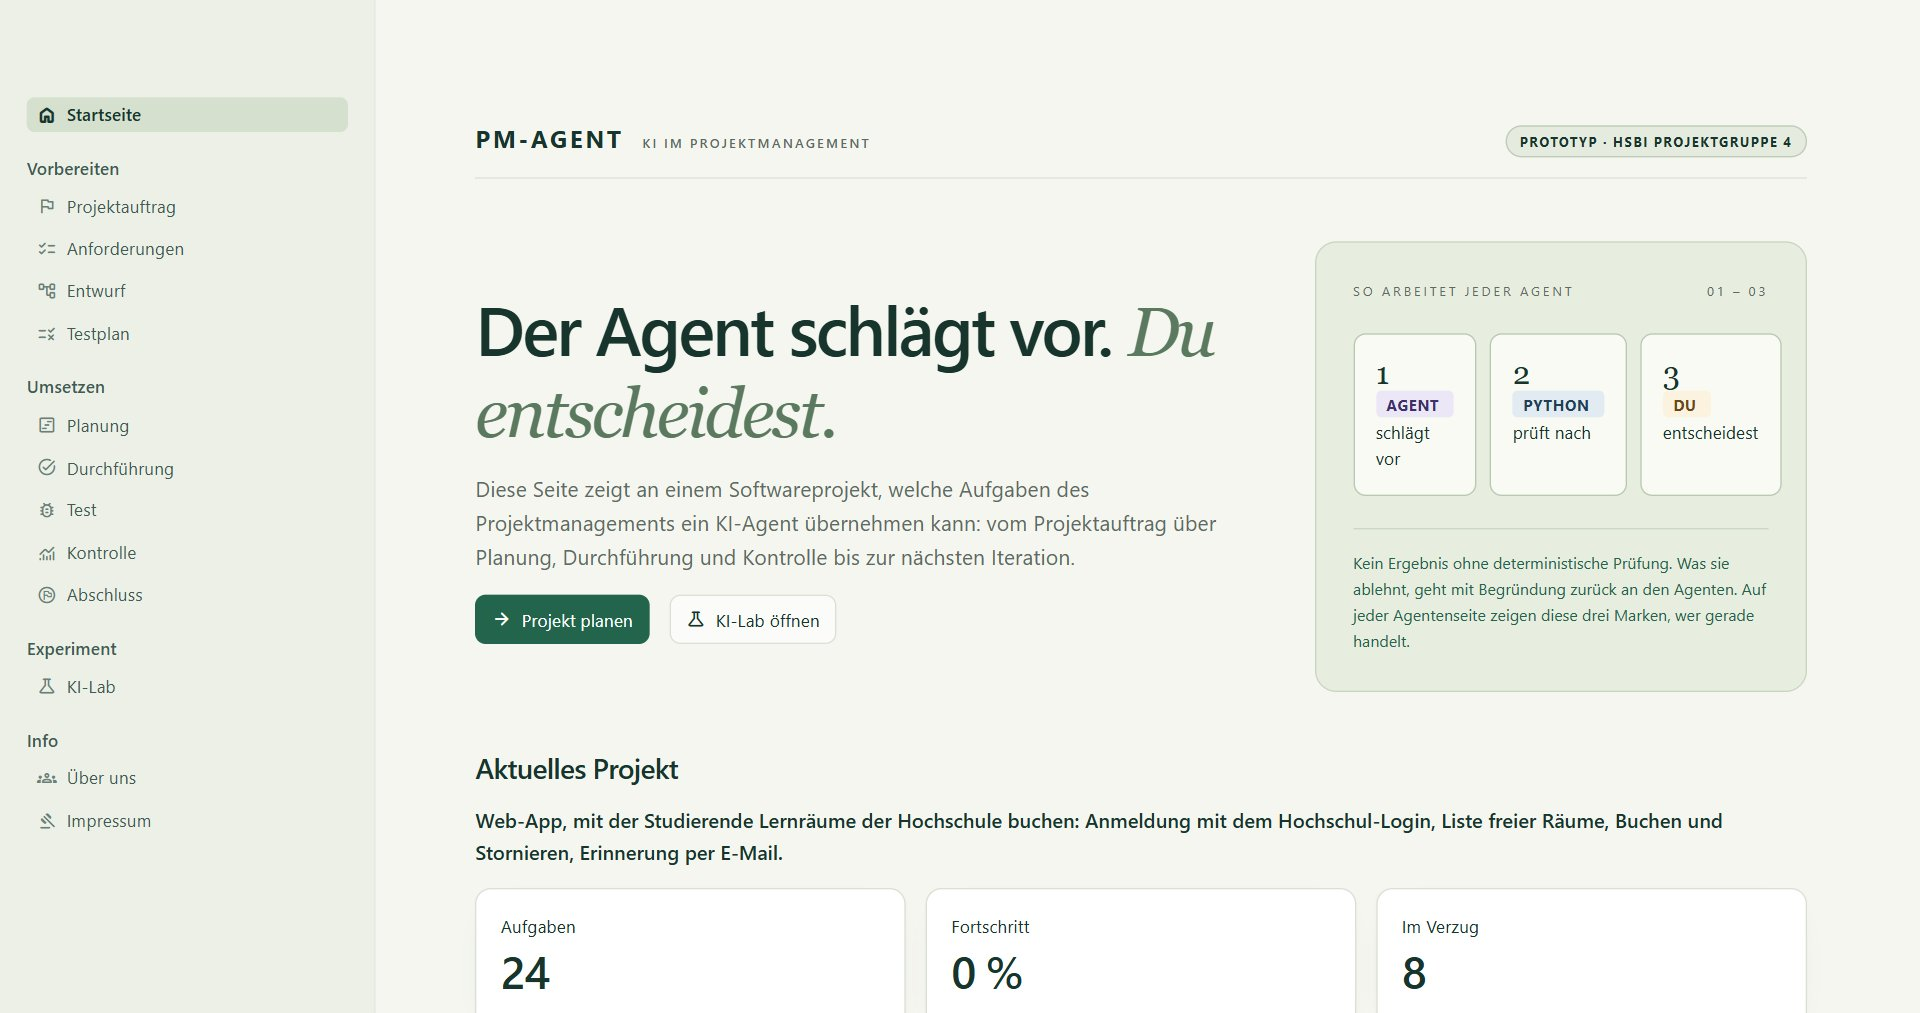
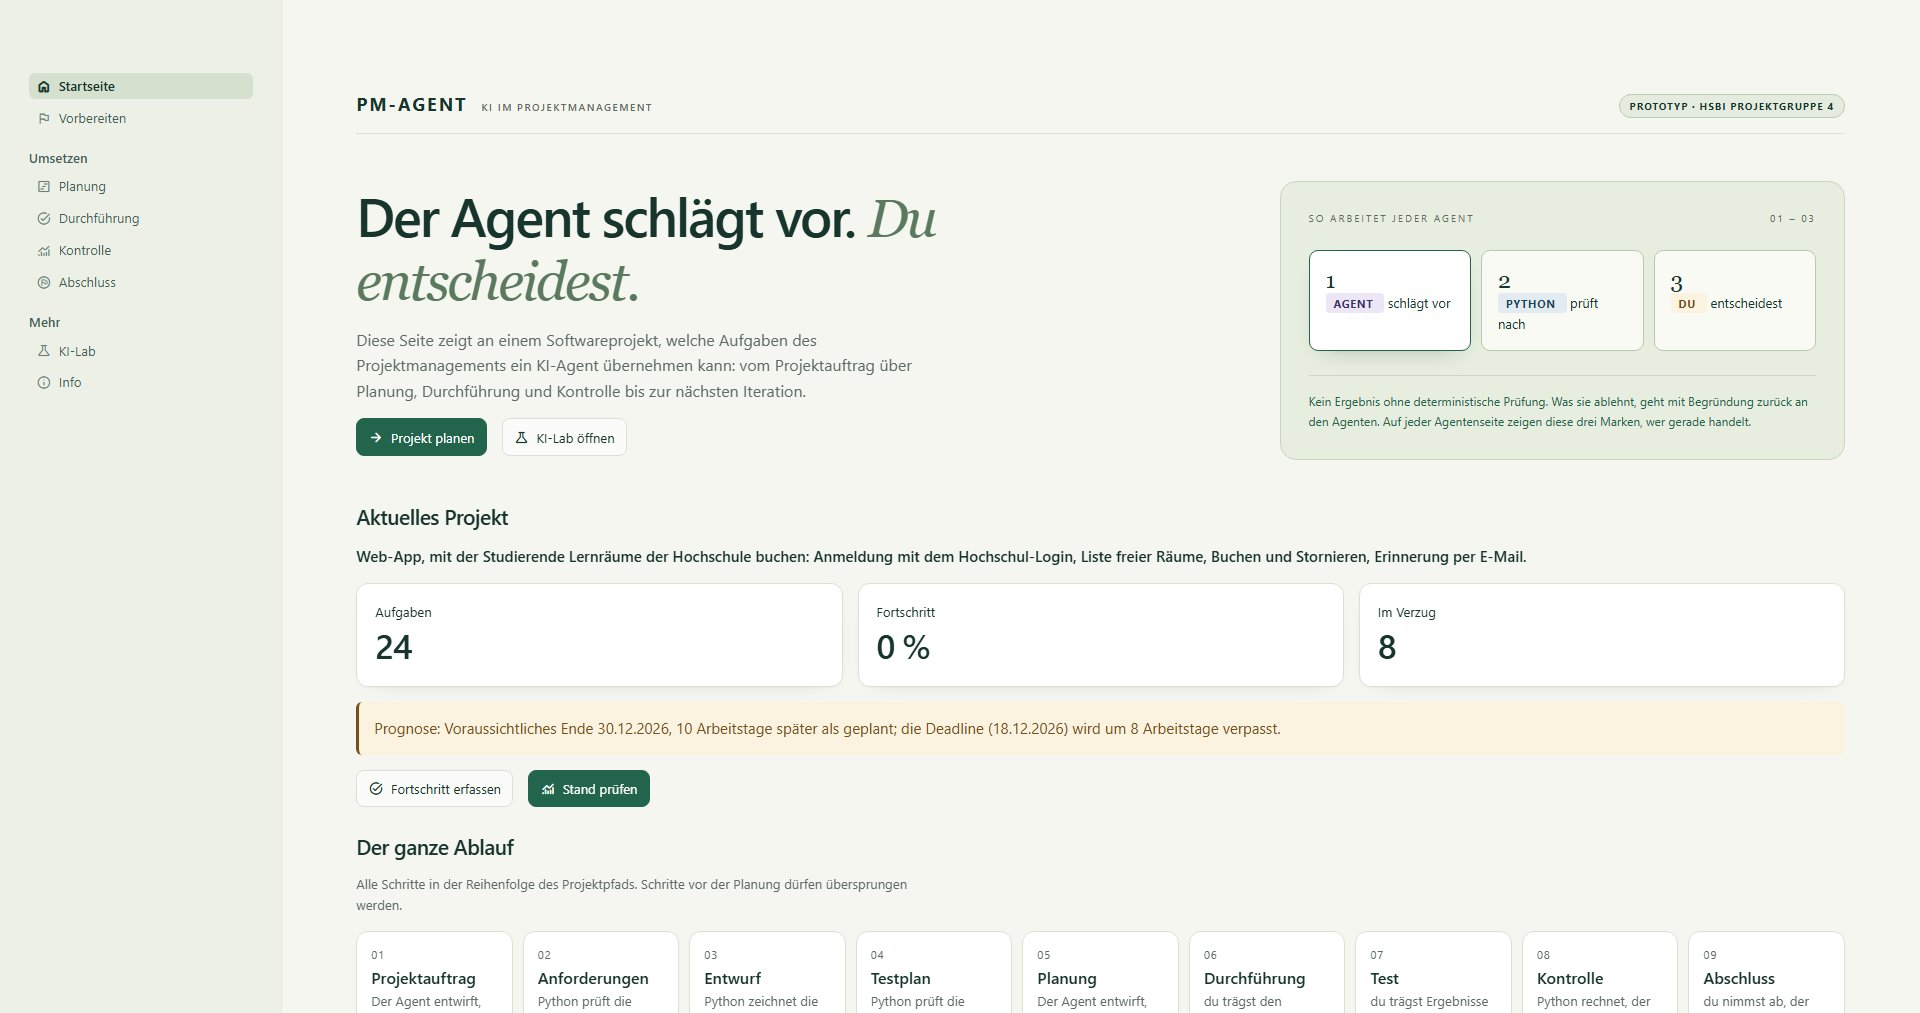
feat(ui): one menu entry per group, the other pages as tabs
The menu listed thirteen pages. Now it shows eight: Startseite,
Vorbereiten, Planung, Durchführung, Kontrolle, Abschluss, KI-Lab and
Info. Anforderungen, Entwurf, Testplan, Test and Impressum stay pages
(hidden in the menu with st.Page visibility), so every switch_page and
URL keeps working; ui.GROUPS lists the groups and ui.group_tabs draws
them as a row of tabs on top of each page of a group.

diff --git a/04-Prototyp/pm_agent/assets/style.css b/04-Prototyp/pm_agent/assets/style.css
@@ -379,6 +379,28 @@
 }
 .chip-arrow { color: var(--muted); }
 
+/* ---- Tabs of a group (Vorbereiten, Kontrolle, Info) -------------------------------------- */
+
+/* The pages of one menu entry. This page has the green edge of the project path; the others
+   are plain links. They wrap on a phone instead of scrolling sideways. */
+[class*="st-key-group-tabs"] { flex-wrap: wrap; row-gap: 4px; }
+[class*="st-key-group-tabs"] [data-testid="stPageLink-NavLink"],
+.group-tab {
+  display: inline-block;
+  border: 1px solid var(--line);
+  background: #fff;
+  border-radius: 20px;
+  padding: 4px 12px;
+  font-size: 14px;
+}
+[class*="st-key-group-tabs"] [data-testid="stPageLink-NavLink"] p { color: var(--ink); font-size: 14px; }
+.group-tab.here {
+  border-color: var(--green);
+  box-shadow: inset 0 0 0 1px var(--green);
+  color: var(--ink);
+  font-weight: 600;
+}
+
 /* ---- Project path and roles (every agent page) ------------------------------------------ */
 
 /* Planen, Ausführen, Prüfen: done in mint with a tick, next with a golden edge, this page

diff --git a/04-Prototyp/pm_agent/app.py b/04-Prototyp/pm_agent/app.py
@@ -9,32 +9,34 @@ from pathlib import Path
 
 import streamlit as st
 
-from pm_agent.ui import PAGES, journey
+from pm_agent.ui import PAGES, group_tabs, journey
 
 ROOT = Path(__file__).parent
 
 st.set_page_config(page_title="PM-Agent", page_icon=":material/view_timeline:", layout="wide")
 state = st.session_state
 
+# One entry per group: the first page of a group stands for it, the other pages of the group
+# are hidden here and open as tabs on top of the page (ui.GROUPS, ui.group_tabs).
 MENU = {
-    "": [st.Page("views/startseite.py", title="Startseite", icon=":material/home:")],
-    "Vorbereiten": [
-        st.Page("views/auftrag.py", title="Projektauftrag", icon=":material/flag:"),
-        st.Page("views/anforderungen.py", title="Anforderungen", icon=":material/checklist:"),
-        st.Page("views/entwurf.py", title="Entwurf", icon=":material/account_tree:"),
-        st.Page("views/testplan.py", title="Testplan", icon=":material/rule:"),
+    "": [
+        st.Page("views/startseite.py", title="Startseite", icon=":material/home:"),
+        st.Page("views/auftrag.py", title="Vorbereiten", icon=":material/flag:"),
+        st.Page("views/anforderungen.py", title="Anforderungen", visibility="hidden"),
+        st.Page("views/entwurf.py", title="Entwurf", visibility="hidden"),
+        st.Page("views/testplan.py", title="Testplan", visibility="hidden"),
     ],
     "Umsetzen": [
         st.Page("views/planung.py", title="Planung", icon=":material/view_timeline:"),
         st.Page("views/durchfuehrung.py", title="Durchführung", icon=":material/task_alt:"),
-        st.Page("views/testlauf.py", title="Test", icon=":material/bug_report:"),
         st.Page("views/kontrolle.py", title="Kontrolle", icon=":material/monitoring:"),
+        st.Page("views/testlauf.py", title="Test", visibility="hidden"),
         st.Page("views/abschluss.py", title="Abschluss", icon=":material/flag_circle:"),
     ],
-    "Experiment": [st.Page("views/ki_lab.py", title="KI-Lab", icon=":material/science:")],
-    "Info": [
-        st.Page("views/ueber_uns.py", title="Über uns", icon=":material/groups:"),
-        st.Page("views/impressum.py", title="Impressum", icon=":material/gavel:"),
+    "Mehr": [
+        st.Page("views/ki_lab.py", title="KI-Lab", icon=":material/science:"),
+        st.Page("views/ueber_uns.py", title="Info", icon=":material/info:"),
+        st.Page("views/impressum.py", title="Impressum", visibility="hidden"),
     ],
 }
 page = st.navigation(MENU)
@@ -69,6 +71,7 @@ state.page = page.url_path
 # A container of its own per page: a page change mounts new content, which is what the
 # page transition in assets/style.css hangs on.
 with st.container(key=f"page-{page.url_path or 'startseite'}"):
+    group_tabs(page.url_path)
     if page.url_path in PAGES:  # the pages of a phase
         journey(page.url_path)
     page.run()

diff --git a/04-Prototyp/pm_agent/tests/test_source_rules.py b/04-Prototyp/pm_agent/tests/test_source_rules.py
@@ -143,13 +143,20 @@ def test_findings_of_a_check_share_one_box_per_kind():
 
 def test_the_project_path_names_each_step_like_the_menu():
     # "Prüfen" in the path above the title "Kontrolle": one step, two names.
-    from pm_agent.ui import JOURNEY
+    from pm_agent.ui import GROUPS, JOURNEY
 
     pages = re.findall(
         r'st\.Page\("views/(\w+)\.py", title="([^"]+)"', (ROOT / "app.py").read_text("utf-8")
     )
     titles = dict(pages)
-    assert [(slug, name) for slug, name, _ in JOURNEY if titles[slug] != name] == []
+    # The first page of a group stands in the menu under the name of the group.
+    heads = {pages[0][0]: group for group, pages in GROUPS.items()}
+    assert [
+        (slug, name) for slug, name, _ in JOURNEY if titles[slug] != heads.get(slug, name)
+    ] == []
+    # Every other step is named in the tabs of its group as in the path.
+    labels = {slug: label for pages in GROUPS.values() for slug, label in pages}
+    assert [(slug, name) for slug, name, _ in JOURNEY if labels.get(slug, name) != name] == []
 
 
 def test_numbers_to_fill_in_follow_the_language_of_the_browser():
@@ -172,7 +179,7 @@ def test_the_menu_groups_pages_by_phase():
     # stood under "Vorbereiten": the group said who acts, and said it wrongly.
     source = (ROOT / "app.py").read_text(encoding="utf-8")
     groups = re.findall(r'^    "([^"]*)": \[', source, flags=re.M)
-    assert groups == ["", "Vorbereiten", "Umsetzen", "Experiment", "Info"]
+    assert groups == ["", "Umsetzen", "Mehr"]
     assert not (ROOT / "views" / "betrieb.py").exists()
     assert not (ROOT / "views" / "iteration.py").exists()
 
@@ -219,3 +226,22 @@ def test_texts_split_over_lines_keep_the_space_between_words():
                 if ends_in_word and right[:1].isalpha():
                     glued.append(f"{path.name}:{first.start[0]}")
     assert not glued, glued
+
+
+def test_the_menu_shows_one_entry_per_group_and_hides_the_rest():
+    # Thirteen entries were too many to scan. The pages of a group are tabs on its page; the
+    # menu shows its first page only, and every other page of the group is hidden there.
+    from pm_agent.ui import GROUPS
+
+    entries = re.findall(
+        r'st\.Page\("views/(\w+)\.py", title="([^"]+)"[^)]*?(visibility="hidden")?\)',
+        (ROOT / "app.py").read_text("utf-8"),
+    )
+    shown = [title for _, title, hidden in entries if not hidden]
+    assert shown == [
+        "Startseite", "Vorbereiten", "Planung", "Durchführung", "Kontrolle", "Abschluss",
+        "KI-Lab", "Info",
+    ]  # fmt: skip
+    hidden = {slug for slug, _, hidden in entries if hidden}
+    rest = {slug for pages in GROUPS.values() for slug, _ in pages[1:]}
+    assert hidden == rest

diff --git a/04-Prototyp/pm_agent/src/pm_agent/ui.py b/04-Prototyp/pm_agent/src/pm_agent/ui.py
@@ -179,6 +179,37 @@ PAGES = {
 }
 
 
+# Pages shown as tabs of one menu entry: the menu names the group and opens its first page;
+# the others are hidden there (app.py) and reached by `group_tabs`.
+GROUPS = {
+    "Vorbereiten": [
+        ("auftrag", "Projektauftrag"),
+        ("anforderungen", "Anforderungen"),
+        ("entwurf", "Entwurf"),
+        ("testplan", "Testplan"),
+    ],
+    "Kontrolle": [("kontrolle", "Kontrolle"), ("testlauf", "Test")],
+    "Info": [("ueber_uns", "Über uns"), ("impressum", "Impressum")],
+}
+
+
+def group_tabs(page: str) -> None:
+    """The pages of the group `page` belongs to, as a row of tabs; nothing outside a group.
+    The others are links, this page is marked: a link to itself would only reload it."""
+    group = next((pages for pages in GROUPS.values() if page in dict(pages)), None)
+    if group is None:
+        return
+    with st.container(horizontal=True, gap="small", key="group-tabs"):
+        for slug, label in group:
+            if slug == page:
+                st.html(
+                    f'<span class="group-tab here" aria-current="page">{escape(label)}</span>',
+                    width="content",
+                )
+            else:
+                st.page_link(f"views/{slug}.py", label=label, width="content")
+
+
 def journey(page: str) -> None:
     """The project path above every page of a phase: which step is done, which is this page,
     which comes next, and which phase before the plan is not approved (a draft, changed since

diff --git a/04-Prototyp/pm_agent/tests/test_app.py b/04-Prototyp/pm_agent/tests/test_app.py
@@ -1042,6 +1042,23 @@ def journey(at):
     return next((h.value for h in at.html if 'class="journey"' in h.value), None)
 
 
+def test_a_page_of_a_group_links_the_other_pages_of_its_group_as_tabs(site):
+    # Only the first page of a group is in the menu; the rest are reached by these tabs.
+    for path, here, others in [
+        ("views/entwurf.py", "Entwurf", ["auftrag", "anforderungen", "testplan"]),
+        ("views/testlauf.py", "Test", ["kontrolle"]),
+        ("views/impressum.py", "Impressum", ["ueber_uns"]),
+    ]:
+        at = site.switch_page(path).run()
+        assert not at.exception, path
+        assert [link.proto.page for link in at.page_link][: len(others)] == others, path
+        tabs = next(h.value for h in at.html if 'class="group-tab here"' in h.value)
+        assert f'aria-current="page">{here}<' in tabs, path
+    # A page outside the groups has no tabs.
+    at = site.switch_page(PLANUNG).run()
+    assert not any('class="group-tab' in h.value for h in at.html)
+
+
 def test_every_agent_page_shows_the_project_path_with_the_page_marked(site):
     for path, step in [
         ("views/auftrag.py", "Projektauftrag"),

diff --git a/04-Prototyp/pm_agent/views/startseite.py b/04-Prototyp/pm_agent/views/startseite.py
@@ -98,7 +98,7 @@ with st.container(key="project"):
 with st.container(key="lifecycle"):
     st.subheader("Der ganze Ablauf")
     st.caption(
-        "Alle Schritte in der Reihenfolge des Menüs. Schritte vor der Planung dürfen "
+        "Alle Schritte in der Reihenfolge des Projektpfads. Schritte vor der Planung dürfen "
         "übersprungen werden."
     )
     with st.container(horizontal=True, key="steps"):

diff --git a/04-Prototyp/pm_agent/README.md b/04-Prototyp/pm_agent/README.md
@@ -23,7 +23,8 @@ Oberfläche ist damit unter `http://localhost:8501` erreichbar, auch wenn `strea
 die Skriptdatei aus einem anderen Verzeichnis aufruft. Der obige Befehl verwendet den
 Projektordner für `uv` und die relative Datei `.env`.
 
-Das Menü links:
+Das Menü links hat acht Einträge. Vorbereiten, Kontrolle und Info fassen mehrere Seiten
+zusammen: Sie stehen als Reiter oben auf der Seite (`ui.GROUPS`). Die Seiten:
 
 | Seite | Inhalt |
 |---|---|
@@ -34,11 +35,11 @@ Das Menü links:
 | Vorbereiten · Testplan | Der Agent entwirft Testfälle aus den Akzeptanzkriterien (feste IDs R1.1 …) und den Schnittstellen; Python prüft, dass jedes Kriterium einer Muss-Anforderung einen Testfall hat, und meldet Schnittstellen und Fehlercodes ohne Test; Freigabe, Markdown |
 | Umsetzen · Planung | Plan mit dem Agenten erstellen, prüfen, anpassen, exportieren, als Projekt übernehmen; je Projektwoche eine Demo, die Python gegen den Zeitplan prüft |
 | Umsetzen · Durchführung | Wer in den nächsten fünf Arbeitstagen womit beginnt (aus der Prognose); Status, Fertigdatum, Ist-Stunden und geschätzten Rest je Aufgabe erfassen, mit dem voraussichtlichen Ende je Aufgabe; der Agent schlägt Zusammenfassung und nächste Schritte vor; Statusbericht und Arbeitspaketbeschreibungen aus Vorlagen (`src/pm_agent/templates`) |
-| Umsetzen · Test | Ergebnisse je Testfall eintragen; jeder fehlgeschlagene Fall braucht einen Fehler (Schwere, Ursache, Aufgabe); ein Fehler öffnet seine Aufgabe auf Knopfdruck wieder |
+| Umsetzen · Kontrolle · Test | Ergebnisse je Testfall eintragen; jeder fehlgeschlagene Fall braucht einen Fehler (Schwere, Ursache, Aufgabe); ein Fehler öffnet seine Aufgabe auf Knopfdruck wieder |
 | Umsetzen · Kontrolle | Wochen-Demos mit Rückblick (gezeigt?, was ging schief, Ursache, Maßnahme; offene Maßnahmen zum Abhaken); Plan/Ist-Vergleich, Verzug, Prognose des Endes (restliche Arbeit ab heute, mit den Aufgaben, die auf verspätete warten) und von dort der Weg zurück in die Planung: „Rest mit dem Agenten umplanen“ lädt die unfertigen Aufgaben als Plan ab heute; Earned Value nach der 0/100-Methode (Planwert, Fertigstellungswert, Ist-Stunden, SPI, CPI); Kosten bei gesetztem Stundensatz; der Agent bewertet den Stand und schlägt Gegenmaßnahmen vor, und wo eine Maßnahme Aufgaben umverteilt, rechnet Python ihre Wirkung auf die Prognose nach; Zeit und Token aller Agentenläufe; alles zusammen als Kontrollbericht aus einer Vorlage |
 | Umsetzen · Abschluss | Abnahme je Anforderung (Python schlägt aus Tests und Fehlern vor, die Projektleitung entscheidet; zurückgestellt nur mit Grund); Lessons Learned vom Agenten mit Bezug auf Fehler und Wochen; Abschlussbericht mit tatsächlichem Ende und den Aufgaben, die später fertig wurden als geplant. Reiter „Betrieb“ (optional): Betriebshandbuch je Baustein (Verantwortliche als Rolle, Bereitstellung, Überwachung, Rücknahme) und Störungen. Reiter „Nächster Durchlauf“: nächster Backlog mit Herkunft; ein neuer Durchlauf legt die Dateien unter `data/archiv/<Datum>` ab und beginnt ein Vorhaben mit dem Backlog |
 | KI-Lab | startet den Studienserver aus `../ki_lab` und zeigt ihn eingebettet |
-| Über uns, Impressum | Projektkontext; Impressumsangaben trägt das Team noch ein |
+| Info · Über uns, Impressum | Projektkontext; Impressumsangaben trägt das Team noch ein |
 
 Über jeder Seite einer Phase steht der Projektpfad Auftrag → Anforderungen → Entwurf →
 Planen → Ausführen → Prüfen: Was erledigt ist, trägt ein Häkchen, die aktuelle Seite ist umrandet. Eine

diff --git a/README.md b/README.md
@@ -18,7 +18,7 @@ Der Agent schlägt vor. Python prüft nach. Die Projektleitung entscheidet.
 [Schnellstart](#schnellstart) ·
 [Stand und Grenzen](#stand-und-grenzen)
 
-<img src="04-Prototyp/pm_agent/assets/screenshots/startseite.jpg" width="900" alt="Startseite der Website: links das Menü mit Vorbereiten, Umsetzen, Experiment und Info, Überschrift „Der Agent schlägt vor. Du entscheidest.“, daneben die drei Schritte der Agent schlägt vor, Python prüft nach, Du entscheidest; darunter das aktuelle Projekt mit 24 Aufgaben, 0 % Fortschritt und 8 im Verzug">
+<img src="04-Prototyp/pm_agent/assets/screenshots/startseite.jpg" width="900" alt="Startseite der Website: links das Menü mit Startseite, Vorbereiten, Planung, Durchführung, Kontrolle, Abschluss, KI-Lab und Info, Überschrift „Der Agent schlägt vor. Du entscheidest.“, daneben die drei Schritte der Agent schlägt vor, Python prüft nach, Du entscheidest; darunter das aktuelle Projekt mit 24 Aufgaben, 0 % Fortschritt und 8 im Verzug">
 
 </div>
 
@@ -89,9 +89,10 @@ Ausgabe-Token, Modell `claude-opus-5-5`. Projekt (Web-App zum Buchen von Lernrä
 ## Die Website
 
 Eine Streamlit-Anwendung, die nur auf dem eigenen Rechner läuft. Das Menü folgt dem Ablauf eines
-Softwareprojekts: Startseite; Vorbereiten (Projektauftrag, Anforderungen, Entwurf, Testplan);
-Umsetzen (Planung, Durchführung, Test, Kontrolle, Abschluss); Experiment (KI-Lab); Info (Über
-uns, Impressum). Betrieb und der nächste Durchlauf sind Reiter im Abschluss. Über jeder dieser
+Softwareprojekts und hat acht Einträge: Startseite; Vorbereiten; Planung, Durchführung, Kontrolle,
+Abschluss; KI-Lab; Info. Vorbereiten öffnet Projektauftrag, Anforderungen, Entwurf und Testplan
+als Reiter über der Seite, Kontrolle ebenso den Test, Info Über uns und Impressum. Betrieb und
+der nächste Durchlauf sind Reiter im Abschluss. Über jeder dieser
 Seiten steht der Projektpfad mit allen neun Schritten und darunter, was als Nächstes zu tun ist. Die Screenshots zeigen das erfundene
 Beispielprojekt vom 20.11.2026.
 
